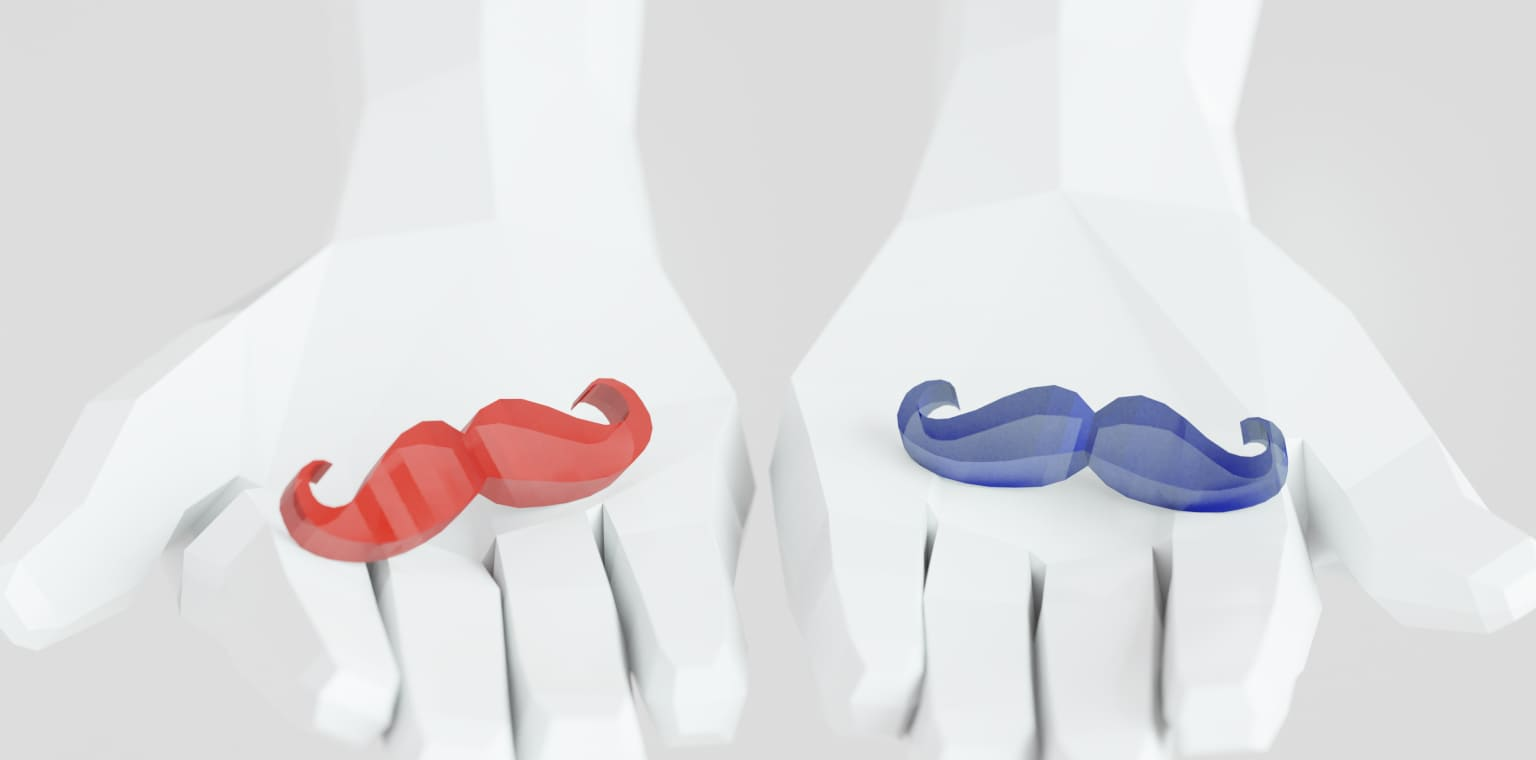
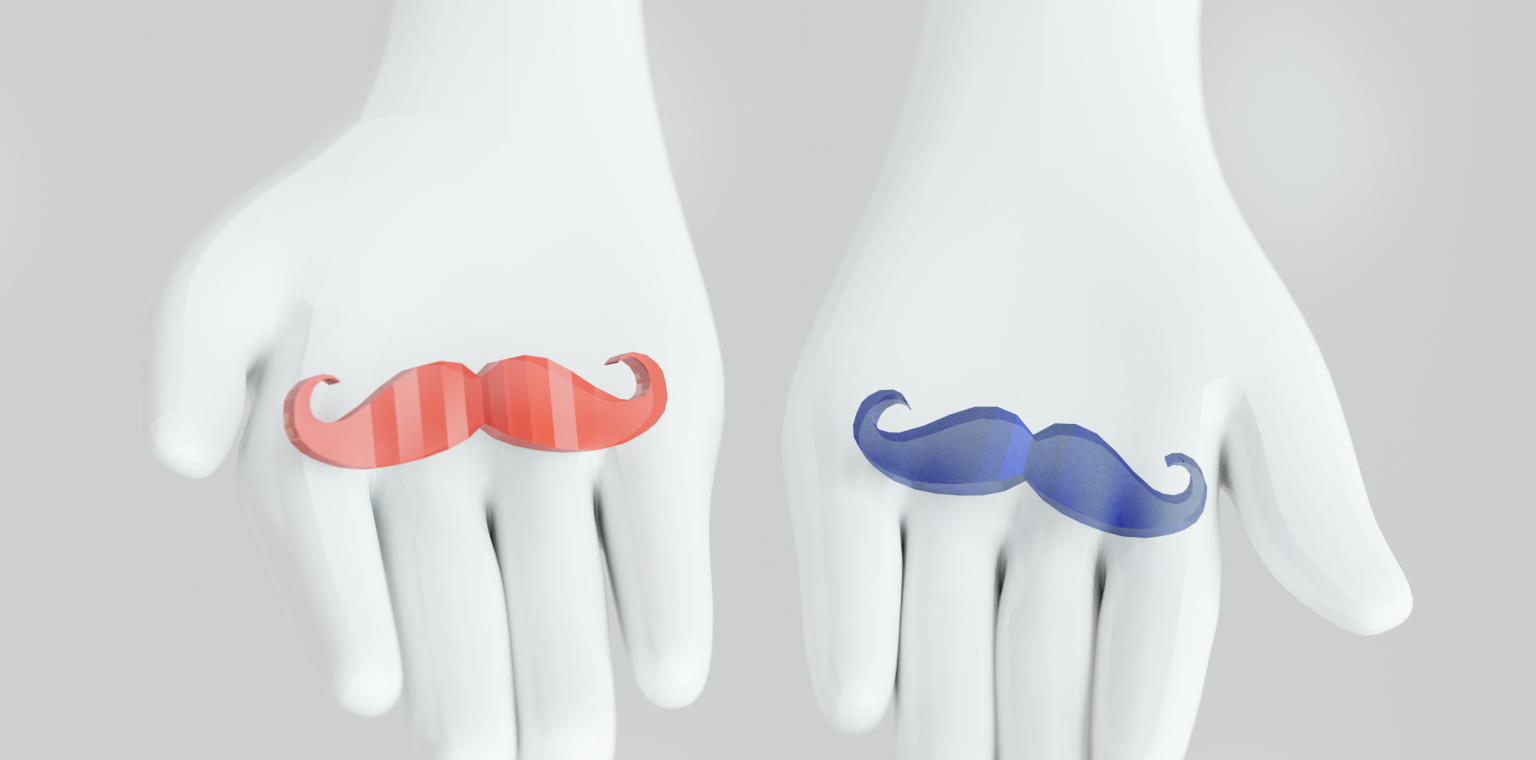
fix: replaced pictures for the background in the subscribe section and removed the link when hovering over the mustache

diff --git a/src/assets/scss/pages/index/sections/_subscribe.scss b/src/assets/scss/pages/index/sections/_subscribe.scss
@@ -5,7 +5,7 @@
 	min-height: 587px;
 	padding: 94px 0;
 
-	background-image: url('../images/bg/subscribe-bg.jpg');
+	background-image: url('../images/bg/subscribe-bg.png');
 
 	@include backgroundStyle;
 }
@@ -72,23 +72,4 @@
 
 .subscribe__description--1 {
 	display: none;
-}
-
-.subscribe__link {
-	position: absolute;
-	top: 122px;
-	left: 60px;
-
-	width: 460px;
-	height: 231px;
-
-	opacity: 0;
-
-	background-image: url('../images/mustache-hover.png');
-
-	&:hover {
-		opacity: 1;
-	}
-
-	@include backgroundStyle;
 }

diff --git a/src/index.html b/src/index.html
@@ -545,7 +545,6 @@
 
       <!-- SUBSCRIBE__WRAPPER -->
       <div class="subscribe__wrapper">
-        <!-- <a href="#" class="subscribe__link"></a> -->
 
         <!-- SUBSCRIBE__TITLE -->
         <h3 class="subscribe__title">

diff --git a/src/assets/scss/pages/index/adaptive/_subscribe.scss b/src/assets/scss/pages/index/adaptive/_subscribe.scss
@@ -1,9 +1,3 @@
-@media screen and (max-width: 1360px) {
-	.subscribe__link {
-		display: none;
-	}
-}
-
 @media (max-width: 1280px) {
 	.subscribe {
 		min-height: auto;
